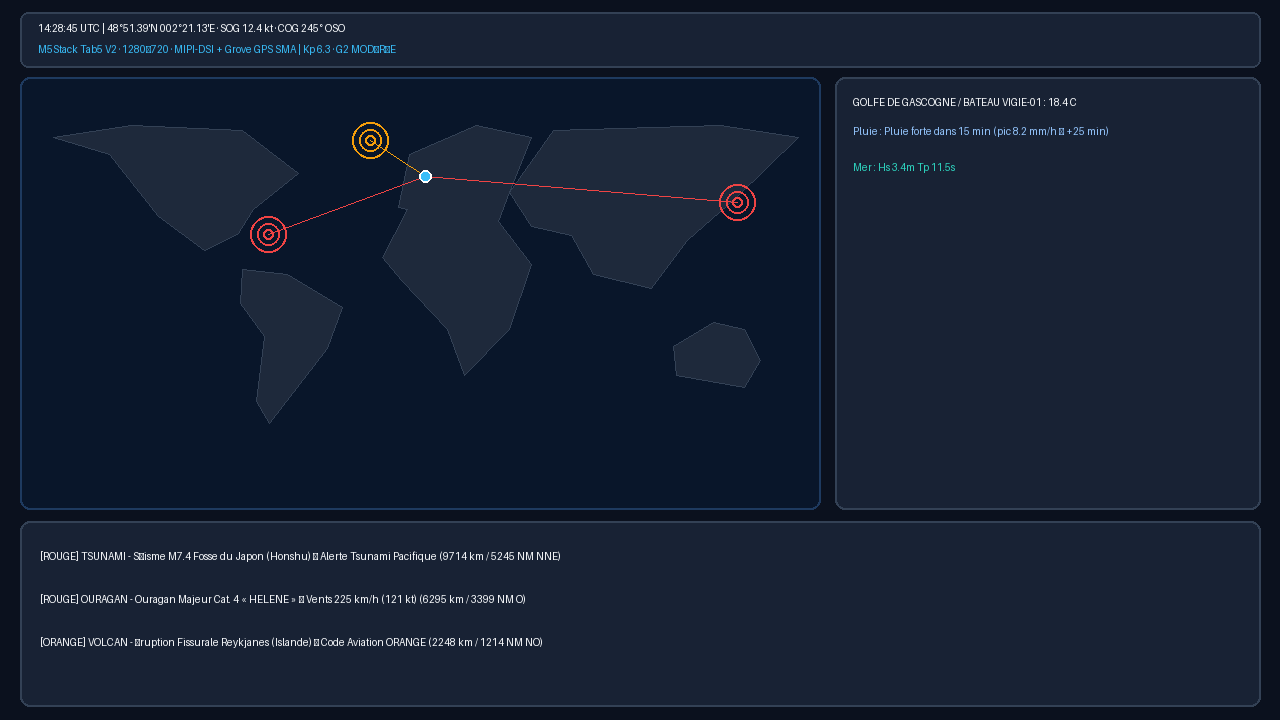
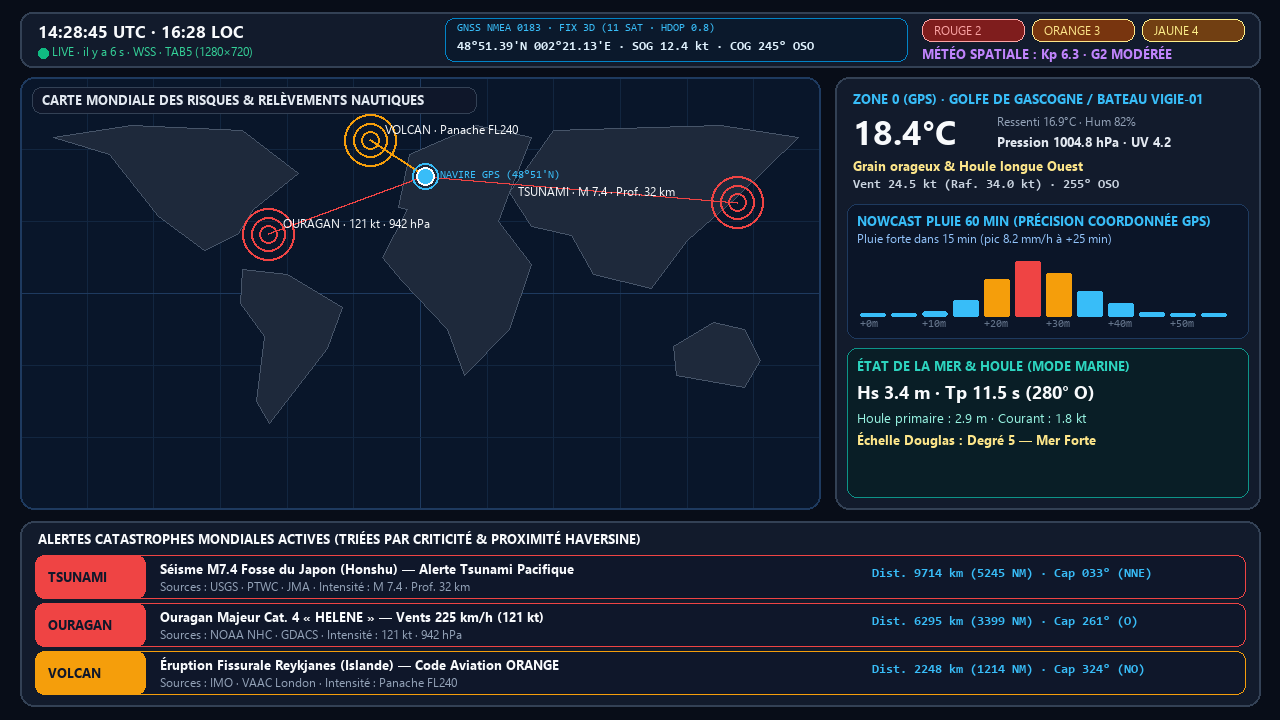
fix(rendu): polices TrueType Unicode et alignement pixel-perfect des aperçus PNG 7B et Tab5
Remplacement de la police bitmap Pillow par Segoe UI / Consolas TrueType, ajout de l'histogramme pluie 60 min, de la sous-carte marine et des badges DEFCON, et placement anti-débordement du label Tsunami.

diff --git a/tools/generer_rendu_ihm.py b/tools/generer_rendu_ihm.py
@@ -418,8 +418,22 @@ def generer_svg_cible(code_carte: str, cfg: dict) -> str:
     return "\n".join(lignes)
 
 
+def _charger_police(noms: list[str], taille: int):
+    from PIL import ImageFont
+
+    dossier_fonts = pathlib.Path("C:/Windows/Fonts")
+    for nom in noms:
+        chemin = dossier_fonts / nom
+        if chemin.exists():
+            try:
+                return ImageFont.truetype(str(chemin), taille)
+            except Exception:
+                pass
+    return ImageFont.load_default()
+
+
 def generer_png_pillow(code_carte: str, cfg: dict, chemin_png: pathlib.Path) -> bool:
-    """Génère également un aperçu PNG matriciel si Pillow (PIL) est installé."""
+    """Génère un aperçu PNG matriciel haute fidélité avec polices TrueType Unicode."""
     try:
         from PIL import Image, ImageDraw
     except ImportError:
@@ -429,6 +443,7 @@ def generer_png_pillow(code_carte: str, cfg: dict, chemin_png: pathlib.Path) -> 
     H = cfg["hauteur"]
     sx = W / 1024.0
     sy = H / 600.0
+    s_min = min(sx, sy)
 
     def X(v: float) -> int:
         return int(round(v * sx))
@@ -436,7 +451,19 @@ def generer_png_pillow(code_carte: str, cfg: dict, chemin_png: pathlib.Path) -> 
     def Y(v: float) -> int:
         return int(round(v * sy))
 
-    img = Image.new("RGB", (W, H), (11, 17, 30))
+    def S(v: float) -> int:
+        return max(9, int(round(v * s_min)))
+
+    f_title = _charger_police(["segoeuib.ttf", "arialbd.ttf"], S(14))
+    f_big_temp = _charger_police(["segoeuib.ttf", "arialbd.ttf"], S(28))
+    f_med_bold = _charger_police(["segoeuib.ttf", "arialbd.ttf"], S(15))
+    f_bold = _charger_police(["segoeuib.ttf", "arialbd.ttf"], S(11))
+    f_reg = _charger_police(["segoeui.ttf", "arial.ttf"], S(11))
+    f_small = _charger_police(["segoeui.ttf", "arial.ttf"], S(10))
+    f_mono = _charger_police(["consolab.ttf", "consola.ttf"], S(11))
+    f_mono_sm = _charger_police(["consola.ttf", "segoeui.ttf"], S(9))
+
+    img = Image.new("RGB", (W, H), (8, 13, 24))
     draw = ImageDraw.Draw(img)
 
     map_x = (16 * W + 512) // 1024
@@ -449,43 +476,321 @@ def generer_png_pillow(code_carte: str, cfg: dict, chemin_png: pathlib.Path) -> 
     bot_w = W - 2 * map_x
     bot_h = H - bot_y - Y(12)
 
-    # Bandeau haut, Carte, Panneau Météo/Marine, Ticker bas
-    draw.rounded_rectangle([map_x, Y(10), map_x + bot_w, Y(56)], radius=8, fill=(24, 34, 52), outline=(51, 65, 85), width=2)
-    draw.rounded_rectangle([map_x, map_y, map_x + map_w, map_y + map_h], radius=10, fill=(9, 22, 42), outline=(30, 58, 95), width=2)
-    draw.rounded_rectangle([right_x, map_y, right_x + right_w, map_y + map_h], radius=10, fill=(24, 34, 52), outline=(51, 65, 85), width=2)
-    draw.rounded_rectangle([map_x, bot_y, map_x + bot_w, bot_y + bot_h], radius=10, fill=(24, 34, 52), outline=(51, 65, 85), width=2)
+    # 1. BANDEAU SUPÉRIEUR
+    hdr_y, hdr_h = Y(10), Y(46)
+    draw.rounded_rectangle(
+        [map_x, hdr_y, map_x + bot_w, hdr_y + hdr_h],
+        radius=S(10),
+        fill=(18, 27, 44),
+        outline=(51, 65, 85),
+        width=2,
+    )
+    draw.text(
+        (map_x + X(14), hdr_y + Y(6)),
+        f"{SCENARIO['heure_utc']} · {SCENARIO['heure_locale']}",
+        font=f_title,
+        fill=(248, 250, 252),
+    )
+    draw.ellipse(
+        [map_x + X(14), hdr_y + Y(30), map_x + X(22), hdr_y + Y(38)],
+        fill=(16, 185, 129),
+    )
+    draw.text(
+        (map_x + X(26), hdr_y + Y(26)),
+        f"{SCENARIO['statut_api']} · {code_carte.upper()} ({W}×{H})",
+        font=f_small,
+        fill=(52, 211, 153),
+    )
+
+    # Encadré GPS Nautique
+    gps_x = map_x + X(340)
+    gps_w = X(370)
+    draw.rounded_rectangle(
+        [gps_x, hdr_y + Y(5), gps_x + gps_w, hdr_y + hdr_h - Y(5)],
+        radius=S(6),
+        fill=(11, 25, 44),
+        outline=(2, 132, 199),
+        width=1,
+    )
+    draw.text(
+        (gps_x + X(10), hdr_y + Y(8)),
+        "GNSS NMEA 0183 · FIX 3D (11 SAT · HDOP 0.8)",
+        font=f_mono_sm,
+        fill=(56, 189, 248),
+    )
+    draw.text(
+        (gps_x + X(10), hdr_y + Y(23)),
+        SCENARIO["gps_nautique"],
+        font=f_mono,
+        fill=(224, 242, 254),
+    )
+
+    # Badges DEFCON Rouge / Orange / Jaune + Kp Solaire
+    bx_badge = map_x + bot_w - X(270)
+    for bg_col, border_col, label in [
+        ((127, 29, 29), (252, 165, 165), f"ROUGE {SCENARIO['defcon_rouges']}"),
+        ((120, 53, 15), (253, 230, 138), f"ORANGE {SCENARIO['defcon_oranges']}"),
+        ((113, 63, 18), (254, 240, 138), f"JAUNE {SCENARIO['defcon_jaunes']}"),
+    ]:
+        draw.rounded_rectangle(
+            [bx_badge, hdr_y + Y(6), bx_badge + X(82), hdr_y + Y(24)],
+            radius=S(5),
+            fill=bg_col,
+            outline=border_col,
+            width=1,
+        )
+        draw.text((bx_badge + X(10), hdr_y + Y(8)), label, font=f_small, fill=border_col)
+        bx_badge += X(88)
+
+    draw.text(
+        (map_x + bot_w - X(270), hdr_y + Y(27)),
+        f"MÉTÉO SPATIALE : {SCENARIO['kp_label']}",
+        font=f_bold,
+        fill=(192, 132, 252),
+    )
+
+    # 2. CARTE MONDIALE DES RISQUES & NAVIGATION MARINE
+    draw.rounded_rectangle(
+        [map_x, map_y, map_x + map_w, map_y + map_h],
+        radius=S(12),
+        fill=(9, 22, 42),
+        outline=(30, 58, 95),
+        width=2,
+    )
+    # Grille de méridiens et parallèles
+    for lon_g in range(-150, 180, 30):
+        gx, _ = projeter_coord(0.0, float(lon_g), map_x, map_y, map_w, map_h)
+        col_g = (30, 58, 95) if lon_g == 0 else (18, 38, 64)
+        draw.line([(gx, map_y + 2), (gx, map_y + map_h - 2)], fill=col_g, width=1)
+    for lat_g in (-60, -30, 0, 30, 60):
+        _, gy = projeter_coord(float(lat_g), 0.0, map_x, map_y, map_w, map_h)
+        col_g = (30, 58, 95) if lat_g == 0 else (18, 38, 64)
+        draw.line([(map_x + 2, gy), (map_x + map_w - 2, gy)], fill=col_g, width=1)
 
     # Continents
     for poly in CONTINENTS_LON_LAT:
         pts = [projeter_coord(lat, lon, map_x, map_y, map_w, map_h) for lon, lat in poly]
-        draw.polygon(pts, fill=(30, 41, 59), outline=(51, 65, 85))
+        draw.polygon(pts, fill=(30, 41, 59), outline=(71, 85, 105))
 
     # Bateau et alertes sur la carte
     bx, by = projeter_coord(SCENARIO["gps_lat"], SCENARIO["gps_lon"], map_x, map_y, map_w, map_h)
     for al in SCENARIO["alertes"]:
         ax, ay = projeter_coord(al["lat"], al["lon"], map_x, map_y, map_w, map_h)
         col = (239, 68, 68) if al["severite"] == "ROUGE" else (245, 158, 11)
-        draw.line([(bx, by), (ax, ay)], fill=col, width=1)
-        for r in (18, 11, 5):
+        draw.line([(bx, by), (ax, ay)], fill=col, width=2)
+        for r in (S(22), S(14), S(6)):
             draw.ellipse([ax - r, ay - r, ax + r, ay + r], outline=col, width=2)
-    draw.ellipse([bx - 6, by - 6, bx + 6, by + 6], fill=(56, 189, 248), outline=(255, 255, 255), width=2)
-
-    # Textes clés
-    draw.text((map_x + X(14), Y(18)), f"{SCENARIO['heure_utc']} | {SCENARIO['gps_nautique']}", fill=(248, 250, 252))
-    draw.text((map_x + X(14), Y(36)), f"{cfg['nom_ecran']} | {SCENARIO['kp_label']}", fill=(56, 189, 248))
-    za = SCENARIO["zone_active"]
-    draw.text((right_x + X(14), map_y + Y(16)), f"{za['nom']} : {za['temp_c']} C", fill=(248, 250, 252))
-    draw.text((right_x + X(14), map_y + Y(40)), f"Pluie : {za['pluie_msg']}", fill=(147, 197, 253))
-    draw.text((right_x + X(14), map_y + Y(70)), f"Mer : Hs {za['marin']['vagues_m']}m Tp {za['marin']['periode_s']}s", fill=(45, 212, 191))
-
-    ty = bot_y + Y(24)
-    for al in SCENARIO["alertes"]:
+        lbl_txt = f"{al['categorie']} · {al['valeur']}"
+        lbl_x = ax - X(175) if ax > map_x + map_w - X(150) else ax + X(12)
         draw.text(
-            (map_x + X(16), ty),
-            f"[{al['severite']}] {al['categorie']} - {al['titre']} ({al['dist_km']} km / {al['dist_nm']} NM {al['cardinal']})",
+            (lbl_x, ay - Y(16)),
+            lbl_txt,
+            font=f_small,
             fill=(248, 250, 252),
         )
-        ty += Y(36)
+
+    # Marqueur Bateau GPS
+    draw.ellipse([bx - S(11), by - S(11), bx + S(11), by + S(11)], outline=(56, 189, 248), width=2)
+    draw.ellipse([bx - S(5), by - S(5), bx + S(5), by + S(5)], fill=(56, 189, 248), outline=(255, 255, 255), width=2)
+    draw.text((bx + X(12), by - Y(6)), "NAVIRE GPS (48°51'N)", font=f_mono_sm, fill=(56, 189, 248))
+
+    # Titre incrusté en haut de la carte
+    draw.rounded_rectangle(
+        [map_x + X(10), map_y + Y(8), map_x + X(365), map_y + Y(30)],
+        radius=S(5),
+        fill=(15, 23, 42),
+        outline=(51, 65, 85),
+        width=1,
+    )
+    draw.text(
+        (map_x + X(18), map_y + Y(11)),
+        "CARTE MONDIALE DES RISQUES & RELÈVEMENTS NAUTIQUES",
+        font=f_bold,
+        fill=(226, 232, 240),
+    )
+
+    # 3. PANNEAU MÉTÉO LOCALE, RADAR PLUIE 60 MIN & ÉTAT DE LA MER
+    draw.rounded_rectangle(
+        [right_x, map_y, right_x + right_w, map_y + map_h],
+        radius=S(12),
+        fill=(18, 27, 44),
+        outline=(51, 65, 85),
+        width=2,
+    )
+    za = SCENARIO["zone_active"]
+    draw.text(
+        (right_x + X(14), map_y + Y(10)),
+        f"ZONE 0 (GPS) · {za['nom']}",
+        font=f_bold,
+        fill=(56, 189, 248),
+    )
+    draw.text(
+        (right_x + X(14), map_y + Y(26)),
+        f"{za['temp_c']:.1f}°C",
+        font=f_big_temp,
+        fill=(248, 250, 252),
+    )
+    draw.text(
+        (right_x + X(130), map_y + Y(30)),
+        f"Ressenti {za['ressenti_c']:.1f}°C · Hum {za['humidite_pct']}%",
+        font=f_small,
+        fill=(148, 163, 184),
+    )
+    draw.text(
+        (right_x + X(130), map_y + Y(46)),
+        f"Pression {za['pression_hpa']:.1f} hPa · UV {za['uv']}",
+        font=f_bold,
+        fill=(226, 232, 240),
+    )
+    draw.text(
+        (right_x + X(14), map_y + Y(66)),
+        za["condition"],
+        font=f_bold,
+        fill=(253, 230, 138),
+    )
+    draw.text(
+        (right_x + X(14), map_y + Y(84)),
+        f"Vent {za['vent_kt']} kt (Raf. {za['rafales_kt']} kt) · {za['vent_dir']}",
+        font=f_mono,
+        fill=(203, 213, 225),
+    )
+
+    # Sous-carte Radar Pluie 60 min (Histogramme 12 barres)
+    rain_y = map_y + Y(106)
+    rain_h = Y(112)
+    draw.rounded_rectangle(
+        [right_x + X(10), rain_y, right_x + right_w - X(10), rain_y + rain_h],
+        radius=S(8),
+        fill=(11, 21, 40),
+        outline=(30, 58, 95),
+        width=1,
+    )
+    draw.text(
+        (right_x + X(18), rain_y + Y(6)),
+        "NOWCAST PLUIE 60 MIN (PRÉCISION COORDONNÉE GPS)",
+        font=f_bold,
+        fill=(56, 189, 248),
+    )
+    draw.text(
+        (right_x + X(18), rain_y + Y(22)),
+        za["pluie_msg"],
+        font=f_small,
+        fill=(147, 197, 253),
+    )
+    bar_x0 = right_x + X(20)
+    bar_w = max(8, (right_w - X(44)) // 12 - X(4))
+    bar_step = (right_w - X(40)) // 12
+    bar_base_y = rain_y + rain_h - Y(18)
+    max_bar_h = Y(50)
+    for idx_b, val_mm in enumerate(za["pluie_5m"]):
+        bh = max(3, int(round((val_mm / 9.0) * max_bar_h)))
+        bx_bar = bar_x0 + idx_b * bar_step
+        b_col = (56, 189, 248) if val_mm < 4.0 else ((245, 158, 11) if val_mm < 7.0 else (239, 68, 68))
+        draw.rounded_rectangle(
+            [bx_bar, bar_base_y - bh, bx_bar + bar_w, bar_base_y],
+            radius=2,
+            fill=b_col,
+        )
+        if idx_b % 2 == 0:
+            draw.text(
+                (bx_bar, bar_base_y + Y(2)),
+                f"+{idx_b * 5}m",
+                font=f_mono_sm,
+                fill=(100, 116, 139),
+            )
+
+    # Sous-carte État de la Mer & Houle (Mode Marine)
+    sea_y = rain_y + rain_h + Y(8)
+    sea_h = map_h - (sea_y - map_y) - Y(10)
+    marin = za["marin"]
+    draw.rounded_rectangle(
+        [right_x + X(10), sea_y, right_x + right_w - X(10), sea_y + sea_h],
+        radius=S(8),
+        fill=(9, 30, 38),
+        outline=(13, 148, 136),
+        width=1,
+    )
+    draw.text(
+        (right_x + X(18), sea_y + Y(7)),
+        "ÉTAT DE LA MER & HOULE (MODE MARINE)",
+        font=f_bold,
+        fill=(45, 212, 191),
+    )
+    draw.text(
+        (right_x + X(18), sea_y + Y(26)),
+        f"Hs {marin['vagues_m']} m · Tp {marin['periode_s']} s ({marin['dir_vagues']})",
+        font=f_med_bold,
+        fill=(248, 250, 252),
+    )
+    draw.text(
+        (right_x + X(18), sea_y + Y(50)),
+        f"Houle primaire : {marin['houle_m']} m · Courant : {marin['courant_kt']} kt",
+        font=f_reg,
+        fill=(153, 246, 228),
+    )
+    draw.text(
+        (right_x + X(18), sea_y + Y(68)),
+        f"Échelle Douglas : {marin['douglas']}",
+        font=f_bold,
+        fill=(253, 230, 138),
+    )
+
+    # 4. TICKER D'ALERTES CATASTROPHES & RELÈVEMENTS HAVERSINE TEMPS RÉEL
+    draw.rounded_rectangle(
+        [map_x, bot_y, map_x + bot_w, bot_y + bot_h],
+        radius=S(12),
+        fill=(18, 27, 44),
+        outline=(51, 65, 85),
+        width=2,
+    )
+    draw.text(
+        (map_x + X(14), bot_y + Y(7)),
+        "ALERTES CATASTROPHES MONDIALES ACTIVES (TRIÉES PAR CRITICITÉ & PROXIMITÉ HAVERSINE)",
+        font=f_bold,
+        fill=(248, 250, 252),
+    )
+
+    row_y = bot_y + Y(28)
+    row_h = (bot_h - Y(34)) // 3
+    for al in SCENARIO["alertes"]:
+        col = (239, 68, 68) if al["severite"] == "ROUGE" else (245, 158, 11)
+        draw.rounded_rectangle(
+            [map_x + X(12), row_y, map_x + bot_w - X(12), row_y + row_h - Y(4)],
+            radius=S(6),
+            fill=(15, 23, 42),
+            outline=col,
+            width=1,
+        )
+        draw.rounded_rectangle(
+            [map_x + X(12), row_y, map_x + X(100), row_y + row_h - Y(4)],
+            radius=S(6),
+            fill=col,
+        )
+        draw.text(
+            (map_x + X(22), row_y + Y(10)),
+            al["categorie"],
+            font=f_bold,
+            fill=(15, 23, 42),
+        )
+        draw.text(
+            (map_x + X(112), row_y + Y(3)),
+            al["titre"],
+            font=f_bold,
+            fill=(248, 250, 252),
+        )
+        draw.text(
+            (map_x + X(112), row_y + Y(19)),
+            f"Sources : {al['source']} · Intensité : {al['valeur']}",
+            font=f_small,
+            fill=(148, 163, 184),
+        )
+        draw.text(
+            (map_x + bot_w - X(310), row_y + Y(10)),
+            f"Dist. {al['dist_km']} km ({al['dist_nm']} NM) · Cap {al['azimut']:03d}° ({al['cardinal']})",
+            font=f_mono,
+            fill=(56, 189, 248),
+        )
+        row_y += row_h
 
     img.save(chemin_png, format="PNG")
     return True
